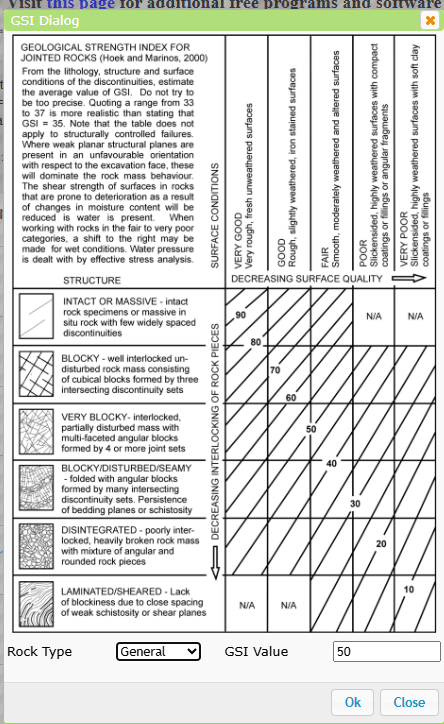
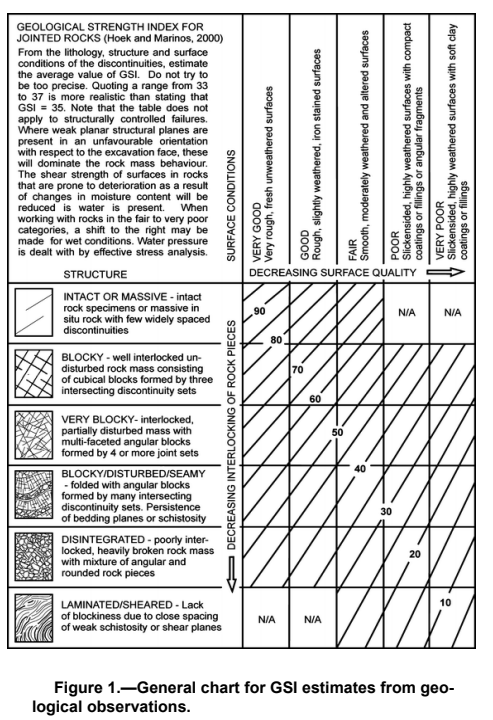
Align GSI picker with supplied research

diff --git a/index.html b/index.html
@@ -26,7 +26,7 @@ button,input,select{border-radius:3px;font-family:inherit}button:focus-visible,a
 .wrap{max-width:none;padding:10px 12px}.grid{grid-template-columns:292px minmax(420px,1fr) 258px;gap:10px;align-items:start}.panel,.hero,.chartbox{border-radius:3px;box-shadow:none}.panel h2{font-size:12px;padding:8px 10px;background:#edf0f3;font-weight:600}.sec{padding:8px 10px}.row{grid-template-columns:1fr 84px 28px;gap:5px;margin:7px 0}.row.small{grid-template-columns:1fr 145px}.row label{font-size:12px}.pick{padding:4px 0}.left .btnbar{display:none}.left select{max-width:100%}.left .row:has(#application){grid-template-columns:1fr 112px}.left .row:has(#application)>span{display:none}.unit{font-size:10px}
 .navigator{padding:10px;background:#f9fafb;border-bottom:1px solid var(--line);line-height:1.9}.navigator b{display:block;font-size:11px;color:#647584;letter-spacing:.6px}.navigator a{display:block;color:#284c64;text-decoration:none;padding-left:8px;border-left:2px solid #4486a6}.content{display:flex;flex-direction:column;gap:10px;min-width:0}.model-tabs{display:flex;border-bottom:1px solid #b9c7d0;background:#edf0f3;padding:0 8px;gap:5px}.model-tabs button{border:0;border-bottom:3px solid transparent;border-radius:0;padding:10px 12px;background:transparent;font-weight:600;font-size:12px}.model-tabs button[aria-selected=true]{border-bottom-color:#287a9e;background:white;color:#205c79}.model-summary{padding:10px 14px;background:#fff;font-size:12px;line-height:1.5;border:1px solid var(--line);border-radius:3px}.model-summary strong{display:block;margin-bottom:3px}.model-summary .formula{font-family:Cambria Math,serif;font-size:19px;color:#334b5d}
 .chartbox{padding:0;overflow:hidden}.chartbox h3{font-size:12px;padding:8px 12px;background:#f5f6f8;border-bottom:1px solid #dde1e5;margin:0;display:flex;justify-content:space-between}.chartbox h3 small{font-weight:400;color:#73818b}.chart{height:clamp(220px,28vh,310px);max-height:310px;display:block;border:0;border-radius:0;aspect-ratio:640/300}.legend{padding:0 12px 9px;font-size:10px;color:#687885;margin:0}.chart-readout{padding:6px 12px;background:#f5f8fa;border-top:1px solid #e1e5e9;color:#426174;font-variant-numeric:tabular-nums;min-height:27px}.notice{border-radius:2px;font-size:11px;padding:8px;line-height:1.5}.results .metrics{display:block;padding:3px 10px}.metric{border:0;border-bottom:1px solid #e4e7eb;border-radius:0;padding:9px 0;background:white}.metric span{font-size:10px}.metric b{font-size:14px;font-weight:600;margin-top:3px;font-variant-numeric:tabular-nums}.results .notice{margin:10px}.result-foot{padding:10px;color:#73818b;font-size:10px;line-height:1.6}.statusbar{position:sticky;bottom:0;z-index:5;padding:7px 14px;border-top:1px solid #bfc9d2;background:#edf1f4;display:flex;justify-content:space-between;font-size:11px;color:#4a6374}.statusbar.error{color:#9d3426}.modal{border-radius:4px}.modalHeader{background:#304c60}.modalHeader h3{font-size:14px}.modalBody{line-height:1.6}.chart-tools{display:flex;align-items:center;gap:12px;padding:7px 10px;border:1px solid var(--line);background:#f7f8fa}.chart-tools label{display:flex;gap:5px;align-items:center;font-size:11px}.chart-tools input{width:auto}.chart-tools button{margin-left:auto}.hb-curve,.mc-curve{transition:opacity .15s}.hide-hb .hb-curve,.hide-mc .mc-curve{opacity:0}
-.modal.gsi-dialog{width:min(1060px,96vw)}.modal.gsi-dialog .modalBody{padding:10px}.modal.gsi-dialog .modalFooter{padding:7px 12px}.gsi-matrix th,.gsi-matrix td{padding:5px 7px}.gsi-pick{min-height:44px}.gsi-controls{margin-bottom:8px;padding:9px 12px}.gsi-controls{display:grid;grid-template-columns:minmax(200px,1fr) minmax(190px,260px) auto;align-items:end;gap:12px;padding:12px;background:#f4f6f8;border:1px solid #d9e0e6;margin-bottom:12px}.gsi-controls label{display:grid;gap:5px;font-weight:600;font-size:11px;color:#4a5e6d}.gsi-controls select,.gsi-controls input{width:100%;min-height:34px}.gsi-guidance{padding:10px 12px;background:#f5f8fa;border-left:3px solid #5585a0;margin:0 0 12px;font-size:11px;line-height:1.5;color:#50616e}.gsi-matrix-wrap{overflow:auto;border:1px solid #c9d1d8;background:#fff}.gsi-matrix{width:100%;min-width:760px;border-collapse:collapse;table-layout:fixed;font-size:11px}.gsi-matrix th,.gsi-matrix td{border:1px solid #cbd2d8;padding:7px 8px;vertical-align:middle}.gsi-matrix thead th{background:#e9eef2;color:#344b5d;font-weight:600;text-align:center}.gsi-matrix thead th:first-child{width:245px;text-align:left}.gsi-matrix tbody th{background:#f4f6f7;text-align:left;font-weight:500;line-height:1.4}.gsi-matrix tbody th strong{display:block;color:#304e64;font-size:11px}.gsi-pick{width:100%;min-height:54px;background:repeating-linear-gradient(145deg,#f7f9fa 0 10px,#dfe7eb 10px 12px);position:relative;display:flex;justify-content:flex-end;align-items:flex-end}.gsi-pick button{min-width:36px;height:27px;border:1px solid #9dabb5;background:#fff;color:#304b5d;font-weight:700;font-variant-numeric:tabular-nums}.gsi-pick button:hover,.gsi-pick button[aria-pressed=true]{background:#286884;border-color:#286884;color:white}.gsi-pick button:focus-visible{outline:2px solid #1c89b5;outline-offset:2px}.flysch-grid{display:grid;grid-template-columns:repeat(4,minmax(0,1fr));gap:8px}.flysch-card{min-height:120px;padding:10px;border:1px solid #ccd4da;background:linear-gradient(145deg,#f8fafb,#e8eef1);display:flex;flex-direction:column;align-items:flex-start;text-align:left;gap:7px}.flysch-card:hover,.flysch-card[aria-pressed=true]{border-color:#286884;background:#edf5f8}.flysch-card .code{font-size:18px;font-weight:700;color:#345970}.flysch-card .desc{font-size:11px;line-height:1.4;flex:1}.flysch-card .range{font-size:10px;color:#697985}.gsi-picker-note{margin:10px 0 0;font-size:10px;line-height:1.45;color:#687681}\n.modal.gsi-dialog{width:min(820px,96vw)}.gsi-matrix-wrap,.flysch-grid{display:none!important}.gsi-reference{text-align:center;margin:0}.gsi-reference img{display:block;width:auto;max-width:min(100%,645px);height:auto;max-height:none;object-fit:contain;margin:0 auto}.gsi-guidance{padding:8px 10px;background:#f5f8fa;border-left:3px solid #5585a0;margin:0 0 8px;font-size:11px;line-height:1.5;color:#50616e}.gsi-picker-note{margin:6px 0 0;font-size:10px;line-height:1.45;color:#687681}
+.modal.gsi-dialog{width:min(1060px,96vw)}.modal.gsi-dialog .modalBody{padding:10px}.modal.gsi-dialog .modalFooter{padding:7px 12px}.gsi-matrix th,.gsi-matrix td{padding:5px 7px}.gsi-pick{min-height:44px}.gsi-controls{margin-bottom:8px;padding:9px 12px}.gsi-controls{display:grid;grid-template-columns:minmax(200px,1fr) minmax(190px,260px) auto;align-items:end;gap:12px;padding:12px;background:#f4f6f8;border:1px solid #d9e0e6;margin-bottom:12px}.gsi-controls label{display:grid;gap:5px;font-weight:600;font-size:11px;color:#4a5e6d}.gsi-controls select,.gsi-controls input{width:100%;min-height:34px}.gsi-guidance{padding:10px 12px;background:#f5f8fa;border-left:3px solid #5585a0;margin:0 0 12px;font-size:11px;line-height:1.5;color:#50616e}.gsi-matrix-wrap{overflow:auto;border:1px solid #c9d1d8;background:#fff}.gsi-matrix{width:100%;min-width:760px;border-collapse:collapse;table-layout:fixed;font-size:11px}.gsi-matrix th,.gsi-matrix td{border:1px solid #cbd2d8;padding:7px 8px;vertical-align:middle}.gsi-matrix thead th{background:#e9eef2;color:#344b5d;font-weight:600;text-align:center}.gsi-matrix thead th:first-child{width:245px;text-align:left}.gsi-matrix tbody th{background:#f4f6f7;text-align:left;font-weight:500;line-height:1.4}.gsi-matrix tbody th strong{display:block;color:#304e64;font-size:11px}.gsi-pick{width:100%;min-height:54px;background:repeating-linear-gradient(145deg,#f7f9fa 0 10px,#dfe7eb 10px 12px);position:relative;display:flex;justify-content:flex-end;align-items:flex-end}.gsi-pick button{min-width:36px;height:27px;border:1px solid #9dabb5;background:#fff;color:#304b5d;font-weight:700;font-variant-numeric:tabular-nums}.gsi-pick button:hover,.gsi-pick button[aria-pressed=true]{background:#286884;border-color:#286884;color:white}.gsi-pick button:focus-visible{outline:2px solid #1c89b5;outline-offset:2px}.flysch-grid{display:grid;grid-template-columns:repeat(4,minmax(0,1fr));gap:8px}.flysch-card{min-height:120px;padding:10px;border:1px solid #ccd4da;background:linear-gradient(145deg,#f8fafb,#e8eef1);display:flex;flex-direction:column;align-items:flex-start;text-align:left;gap:7px}.flysch-card:hover,.flysch-card[aria-pressed=true]{border-color:#286884;background:#edf5f8}.flysch-card .code{font-size:18px;font-weight:700;color:#345970}.flysch-card .desc{font-size:11px;line-height:1.4;flex:1}.flysch-card .range{font-size:10px;color:#697985}.gsi-picker-note{margin:10px 0 0;font-size:10px;line-height:1.45;color:#687681}\n.modal.gsi-dialog{width:min(820px,96vw)}.gsi-matrix-wrap,.flysch-grid{display:none!important}.gsi-reference{text-align:center;margin:0}.gsi-reference img{display:block;width:auto;max-width:min(100%,760px);height:auto;max-height:none;object-fit:contain;margin:0 auto}.gsi-reference figcaption{max-width:760px;margin:5px auto 8px;text-align:center;color:#687681;font-size:10px;line-height:1.4}.gsi-guidance{padding:8px 10px;background:#f5f8fa;border-left:3px solid #5585a0;margin:0 0 8px;font-size:11px;line-height:1.5;color:#50616e}.gsi-picker-note{margin:6px 0 0;font-size:10px;line-height:1.45;color:#687681}
 @media(min-width:1500px){.grid{grid-template-columns:310px minmax(420px,1fr) 280px}.content{display:grid;grid-template-columns:repeat(2,minmax(0,1fr))}.model-tabs,.model-summary,.chart-tools{grid-column:1/-1}.chart{height:360px;max-height:360px;aspect-ratio:auto}.chartbox h3 small{display:none}}@media(max-width:1100px){.grid{grid-template-columns:270px minmax(0,1fr)}.results{grid-column:1/-1}.results .metrics{display:grid;grid-template-columns:repeat(5,1fr);gap:12px}.toolbar .trailing{display:none}}@media(max-width:720px){.flysch-grid{grid-template-columns:repeat(2,minmax(0,1fr))}.gsi-controls{grid-template-columns:1fr 1fr}.gsi-controls>button{grid-column:1/-1}.grid{grid-template-columns:1fr}.results{grid-column:auto}.results .metrics{grid-template-columns:repeat(2,1fr)}header p{display:none}.toolbar{flex-wrap:wrap}.model-tabs button{font-size:11px;padding:9px 5px}.wrap{padding:8px}.statusbar{gap:12px}.chart{min-height:200px}.gsiGrid{min-width:650px}.modalBody{overflow:auto}}
 @media print{.toolbar,.model-tabs,.chart-tools,.statusbar,.navigator{display:none}.grid{display:block}.results{break-inside:avoid}.results .metrics{display:grid;grid-template-columns:repeat(5,1fr)}.chart{max-height:270px}.content{gap:8px}}
 </style>
@@ -111,8 +111,8 @@ function plotPrincipal(v){const xmin=Math.min(v.sigt,0),xmax=Math.max(v.sig3max,
 function plotShear(v){const pts=[]; let maxN=0,maxT=0; for(let i=0;i<=180;i++){const s3=Math.max(v.sigt+1e-8,v.sigt+(v.sig3max-v.sigt)*i/180),base=v.mb*s3/v.sigci+v.s;if(base<=0)continue; const s1=s3+v.sigci*Math.pow(base,v.a); const ds=1+v.a*v.mb*Math.pow(base,v.a-1); const sn=s3+(s1-s3)/(1+ds); const tau=(sn-s3)*Math.sqrt(Math.max(ds,0)); if(Number.isFinite(sn)&&Number.isFinite(tau)){pts.push([sn,tau]);maxN=Math.max(maxN,sn);maxT=Math.max(maxT,tau)}} const xmax=Math.max(maxN,0.1)*1.08; const mc=[];for(let i=0;i<=100;i++){const x=xmax*i/100;mc.push([x,v.c+x*Math.tan(v.phi)])} const ymax=Math.max(maxT,...mc.map(p=>p[1]))*1.08; const A=axes($('chartShear'),0,xmax,0,ymax,"Normal stress σ′n (MPa)","Shear stress τ (MPa)"); $('chartShear').innerHTML=A.out+`<path d="${path(pts,A.sx,A.sy)}" class="hb-curve" fill="none" stroke="#1267a8" stroke-width="3"/><path d="${path(mc,A.sx,A.sy)}" class="mc-curve" fill="none" stroke="#d05a45" stroke-width="2.2" stroke-dasharray="7 5"/><text x="470" y="34" font-size="11" fill="#1267a8">Hoek–Brown</text><text x="470" y="50" font-size="11" fill="#d05a45">Mohr–Coulomb</text>`;}
 function updateApp(){const a=$('application').value;$('customFields').classList.toggle('hidden',a!=='custom');$('depthFields').classList.toggle('hidden',!(a==='tunnel'||a==='slope'));$('depthLabel').textContent=a==='slope'?'Slope height H':'Tunnel depth H';calc();}
 let gsiRockType='general',pendingGSI=50;
-function renderGsiPicker(){return `<div class="gsi-controls"><label for="gsiRockType">Rock mass type<select id="gsiRockType" onchange="gsiRockType=this.value;renderPickerGrid()"><option value="general" ${gsiRockType==='general'?'selected':''}>General</option><option value="flysch" ${gsiRockType==='flysch'?'selected':''}>Flysch</option></select></label><label for="gsiDraft">GSI value<input id="gsiDraft" type="number" min="0" max="100" step="1" value="${pendingGSI}" oninput="pendingGSI=Number(this.value)"></label><button onclick="pendingGSI=50;$('gsiDraft').value=50">Reset value</button></div><p class="gsi-guidance">Use the reference chart to assess the rock mass. Enter the selected GSI value above, then choose OK to apply it.</p><div id="gsiPickerGrid"></div><p class="gsi-picker-note">The reference image is shown as supplied. GSI remains editable above.</p>`;}
-function renderPickerGrid(){const host=$('gsiPickerGrid');if(!host)return;const flysch=gsiRockType==='flysch';host.innerHTML=`<figure class="gsi-reference"><img src="assets/gsi-${flysch?'flysch':'general'}-reference.png" alt="${flysch?'Flysch heterogeneous rock mass GSI reference chart':'General jointed rock mass GSI reference chart'}"></figure>`;}function applyGSI(){const input=$('gsiDraft');if(!input||!input.checkValidity()){input?.reportValidity();return;}pendingGSI=Number(input.value);$('gsi').value=pendingGSI;closeModal();calc();}
+function renderGsiPicker(){return `<div class="gsi-controls"><label for="gsiRockType">Rock mass type<select id="gsiRockType" onchange="gsiRockType=this.value;renderPickerGrid()"><option value="general" ${gsiRockType==='general'?'selected':''}>General</option><option value="flysch" ${gsiRockType==='flysch'?'selected':''}>Flysch</option></select></label><label for="gsiDraft">Representative GSI<input id="gsiDraft" type="number" min="0" max="100" step="1" value="${pendingGSI}" oninput="pendingGSI=Number(this.value)"></label><button onclick="pendingGSI=50;$('gsiDraft').value=50">Reset value</button></div><p class="gsi-guidance">Assess the rock mass from its observed geology. Enter one representative GSI value for this calculation; where conditions vary, record a reasonable GSI range and run the lower and upper values separately.</p><div id="gsiPickerGrid"></div><div id="gsiSpecificGuidance"></div><p class="gsi-guidance"><b>Applicability:</b> GSI assumes a sufficiently jointed, approximately isotropic rock mass. Do not use it where failure is controlled by a persistent structural plane. GSI estimates rock-mass properties; it is not a stand-alone tunnel or slope design classification.</p>`;}
+function renderPickerGrid(){const host=$('gsiPickerGrid');if(!host)return;const flysch=gsiRockType==='flysch';host.innerHTML=`<figure class="gsi-reference"><img src="assets/gsi-${flysch?'flysch':'general'}-reference.png" alt="${flysch?'Flysch heterogeneous rock mass GSI reference chart':'General jointed rock mass GSI reference chart'}"><figcaption>${flysch?'Heterogeneous rock masses such as flysch — Figure 2, p. 91':'General jointed rock masses — Figure 1, p. 88'} · Marinos, Marinos &amp; Hoek, “The Geological Strength Index (GSI)”</figcaption></figure>`;const note=$('gsiSpecificGuidance');note.innerHTML=flysch?`<p class="gsi-guidance"><b>Flysch:</b> Use for heterogeneous, tectonically disturbed rock masses. Consider weighted-average intact UCS (σ<sub>ci</sub>) and m<sub>i</sub> for strong and weak layers. This chart is not for tectonically undisturbed molasse.</p>`:`<p class="gsi-guidance"><b>General chart:</b> Select the structure row, then assess discontinuity-surface condition across the columns. Read the indicated band rather than assigning false precision; water pressure is handled separately in effective-stress analysis.</p>`;}function applyGSI(){const input=$('gsiDraft');if(!input||!input.checkValidity()){input?.reportValidity();return;}pendingGSI=Number(input.value);$('gsi').value=pendingGSI;closeModal();calc();}
 function openPicker(type){let title='',body='',footer='<button onclick="closeModal()">Close</button>';
  if(type==='ucs'){title='Intact UCS — Field Estimate';body=`<table class="tbl"><tr><th>Grade</th><th>UCS (MPa)</th><th>Field estimate</th><th>Examples</th></tr>${ucsRows.map(r=>`<tr class="pickrow" onclick="setVal('sigci',${r[4]})"><td>${r[0]}</td><td>${r[1]}</td><td>${r[2]}</td><td>${r[3]}</td></tr>`).join('')}</table><p class="notice">Click a row to insert a representative midpoint value. Replace it with laboratory UCS whenever available.</p>`}
  if(type==='mi'){title='Intact Rock Constant mᵢ — Reference Values';body=`<table class="tbl"><tr><th>Rock type</th><th>mᵢ</th><th>Typical spread</th></tr>${miRows.map(r=>`<tr class="pickrow" onclick="setVal('mi',${r[1]})"><td>${r[0]}</td><td>${r[1]}</td><td>${r[2]}</td></tr>`).join('')}</table><p class="notice">Reference values are indicative. Use triaxial-test calibration where possible.</p>`}
@@ -120,7 +120,7 @@ function openPicker(type){let title='',body='',footer='<button onclick="closeMod
  if(type==='mr'){title='Estimate Intact Modulus Eᵢ using Modulus Ratio MR';body=`<p>Eᵢ = MR × σci</p><table class="tbl"><tr><th>Rock type</th><th>Representative MR</th></tr>${mrRows.map(r=>`<tr class="pickrow" onclick="setMR(${r[1]})"><td>${r[0]}</td><td>${r[1]}</td></tr>`).join('')}</table><p class="notice">MR values are only preliminary estimates. Laboratory Eᵢ is preferred.</p>`}
  if(type==='gsi'){title='GSI Picker — Rock Mass Classification';pendingGSI=+$('gsi').value;body=renderGsiPicker();footer='<button onclick="applyGSI()" class="primary">OK</button><button onclick="closeModal()">Close</button>'}
  if(type==='help'){title='How to use';body=`<ol><li>Enter intact UCS σci, GSI, mi and disturbance D.</li><li>Enter intact modulus Ei or estimate it using MR.</li><li>Select Custom, General, Tunnel or Slope for the failure-envelope stress range.</li><li>Read Hoek–Brown rock-mass parameters and the stress-range-dependent equivalent Mohr–Coulomb c′ and φ′.</li><li>Use the plots to review the fit before transferring parameters into numerical or limit-equilibrium software.</li></ol>`}
- if(type==='refs'){title='Theory & References';body=`<div class="refs"><b>Primary theory</b><br>Hoek, E., Carranza-Torres, C. & Corkum, B. (2002). Hoek–Brown failure criterion — 2002 edition.<br>Hoek, E. & Diederichs, M.S. (2006). Empirical estimation of rock mass modulus. IJRMMS 43, 203–215.<br><br><b>Implemented equations</b><br>Generalized Hoek–Brown: mb, s, a; tensile strength; rock-mass UCS; global rock-mass strength; equivalent Mohr–Coulomb c′ and φ′; General/Tunnel/Slope/Custom σ3max; Generalized and Simplified Hoek–Diederichs modulus.<br><br><b>Rocscience documentation cross-check</b><br>RSData: Generalized Hoek–Brown Criterion, Failure Range, GSI Calculator, Rock Mass Modulus.</div>`}
+ if(type==='refs'){title='Theory & References';body=`<div class="refs"><b>Hoek–Brown criterion</b><br>Hoek, E., Carranza-Torres, C. & Corkum, B. (2002). “Hoek-Brown failure criterion — 2002 edition.” Generalized parameters (equations 3–5); equivalent Mohr–Coulomb fit (12–13); tunnel and slope ranges (18–19).<br><br><b>GSI charts and field use</b><br>Marinos, P.G., Marinos, V. & Hoek, E. “The Geological Strength Index (GSI): A Characterization Tool for Assessing Engineering Properties for Rock Masses.” Figure 1, general jointed rocks (p. 88); Figure 2, heterogeneous rocks such as flysch (p. 91).<br><br><b>Modulus</b><br>Hoek, E. & Diederichs, M.S. (2006). “Empirical estimation of rock mass modulus.” IJRMMS 43, 203–215.<br><br>GSI is a qualitative geological estimate and is best represented by a range when conditions vary. It assumes approximately isotropic rock-mass behavior and should not represent structurally controlled failure. The calculator uses a single representative value per run.<br><br><b>Implemented equations</b><br>Generalized Hoek–Brown parameters, rock-mass strengths, equivalent Mohr–Coulomb properties over the selected stress range, and modulus estimates.</div>`}
  if(type==='about'){title='About this calculator';body=`<p>Independent educational/engineering calculator inspired by the workflow of ORMAS and cross-checked against published Hoek–Brown theory and Rocscience documentation. It is <b>not</b> a Rocscience product and does not reproduce RSData source code.</p><p>Verification testcase: σci=30 MPa, GSI=50, mi=10, D=0, Ei=12000 MPa, σ3max=7.5 MPa reproduces the ORMAS V2.0 values shown in the reference screenshot.</p>`}
  $('modalHost').innerHTML=`<div class="modalBackdrop" onclick="if(event.target===this)closeModal()"><div class="modal"><div class="modalHeader"><h3>${title}</h3><button style="color:#fff;background:transparent;border-color:#6f879e" onclick="closeModal()">✕</button></div><div class="modalBody">${body}</div><div class="modalFooter">${footer}</div></div></div>`;}
 function closeModal(){$('modalHost').innerHTML=''} function setVal(id,v){$(id).value=v;closeModal();calc()} function setMR(mr){$('Ei').value=mr*(+$('sigci').value);closeModal();calc()}

diff --git a/README.md b/README.md
@@ -1,12 +1,12 @@
 # Rock Mass Strength Calculator
 
-Independent Generalized Hoek–Brown engineering workbench, with an original desktop interface informed by public RSData workflow conventions. It uses no Rocscience source code. The GSI dialog displays the two reference screenshots supplied for this project; the live type selector and GSI input apply values to the calculator.
+Independent Generalized Hoek–Brown engineering workbench, with an original desktop interface informed by public RSData workflow conventions. It uses no Rocscience source code. The GSI dialog displays Figure 1 (general jointed rock) and the revised Figure 2 (Flysch) from the supplied GSI paper; the picker explains applicability, qualitative ranges, and the single representative value used by each calculation.
 
 Live site: https://doancongbien96-beep.github.io/Rock-Mass-Strength-Calculator/
 
 Open index.html locally to run the calculator. No build or dependency installation is required.
 
-The toolbar provides reset, print report, Excel export, and JSON project save/open. The left pane contains material inputs and reference pickers for UCS, GSI, mi, disturbance and modulus ratio. The GSI dialog displays the supplied jointed-rock or Flysch reference image based on the selected type, with a separate editable GSI value. Central model tabs explain Generalized Hoek–Brown and equivalent Mohr–Coulomb; both stress charts update with inputs. Toggle either envelope, inspect cursor stress coordinates, wheel to zoom, or double-click / Reset view to restore. The right pane shows calculated properties, and the status bar reports validation errors. All stress and modulus values are in MPa; dimensions are in m and unit weight in MN/m³.
+The toolbar provides reset, print report, Excel export, and JSON project save/open. The left pane contains material inputs and reference pickers for UCS, GSI, mi, disturbance and modulus ratio. The GSI dialog displays the supplied general-rock or Flysch reference chart, with field-use guidance and an editable representative GSI value. When uncertainty matters, run lower and upper values separately; the equations use one GSI value per run. Central model tabs explain Generalized Hoek–Brown and equivalent Mohr–Coulomb; both stress charts update with inputs. Toggle either envelope, inspect cursor stress coordinates, wheel to zoom, or double-click / Reset view to restore. The right pane shows calculated properties, and the status bar reports validation errors. All stress and modulus values are in MPa; dimensions are in m and unit weight in MN/m³.
 
 General, Tunnel, Slope and Custom applications retain the original failure-range calculations. Invalid or incomplete inputs keep the previous valid results and show a status message. Reference picker values are preliminary guidance; determine GSI from site mapping and project data.
 
